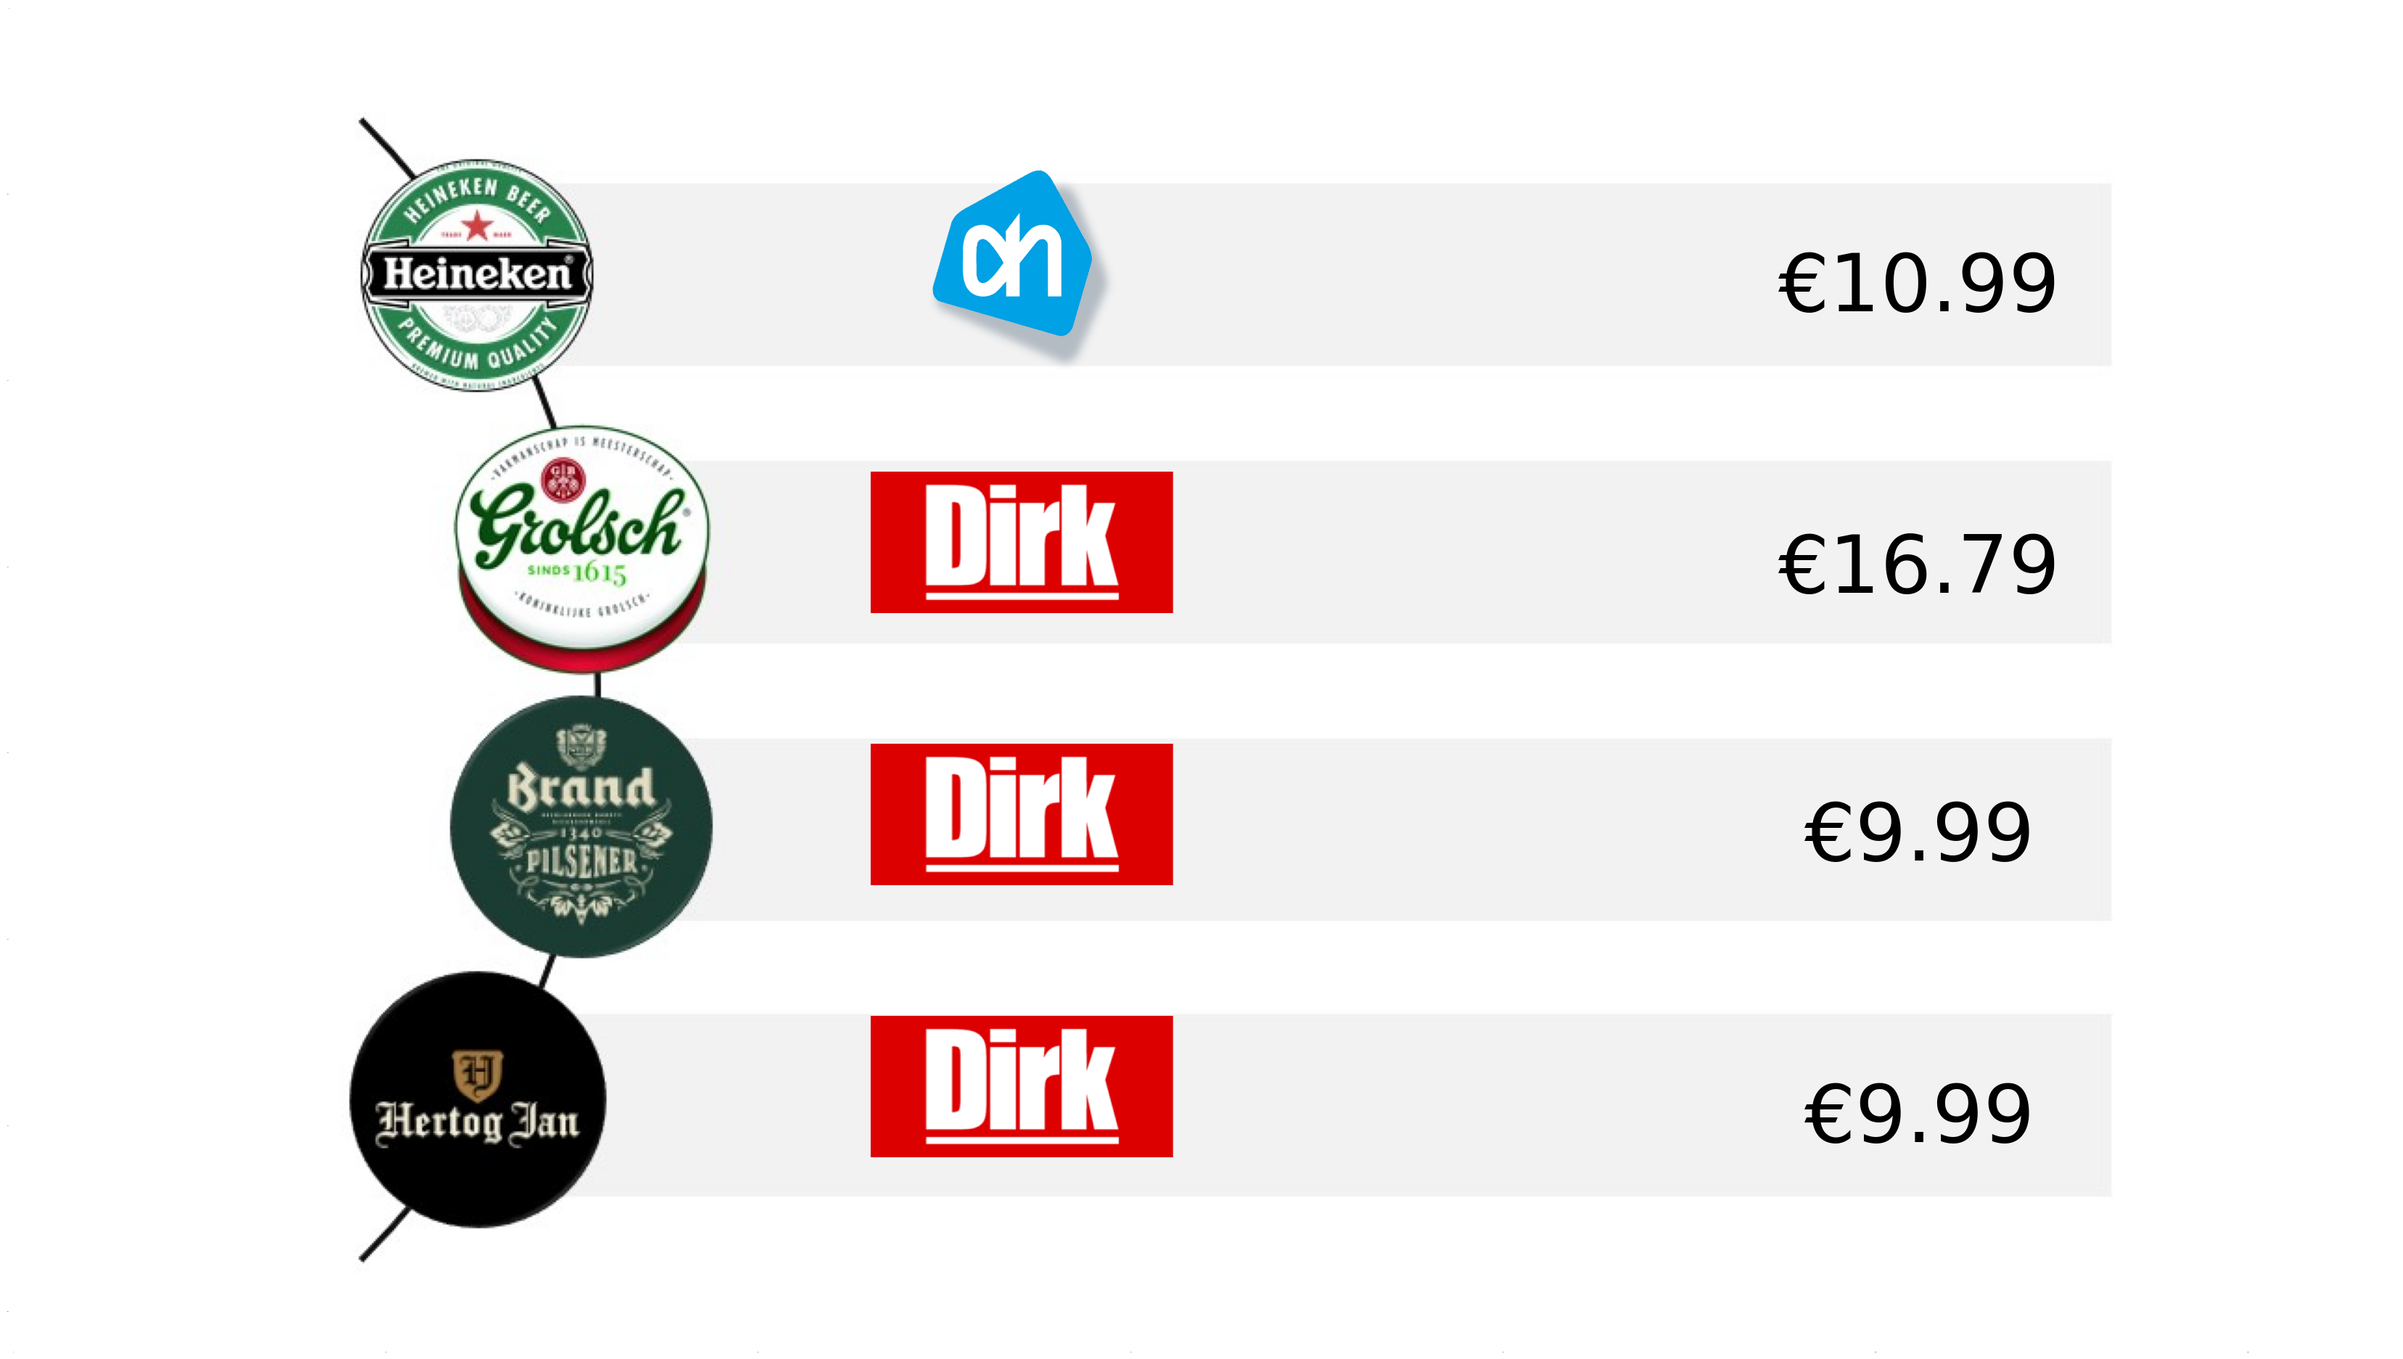
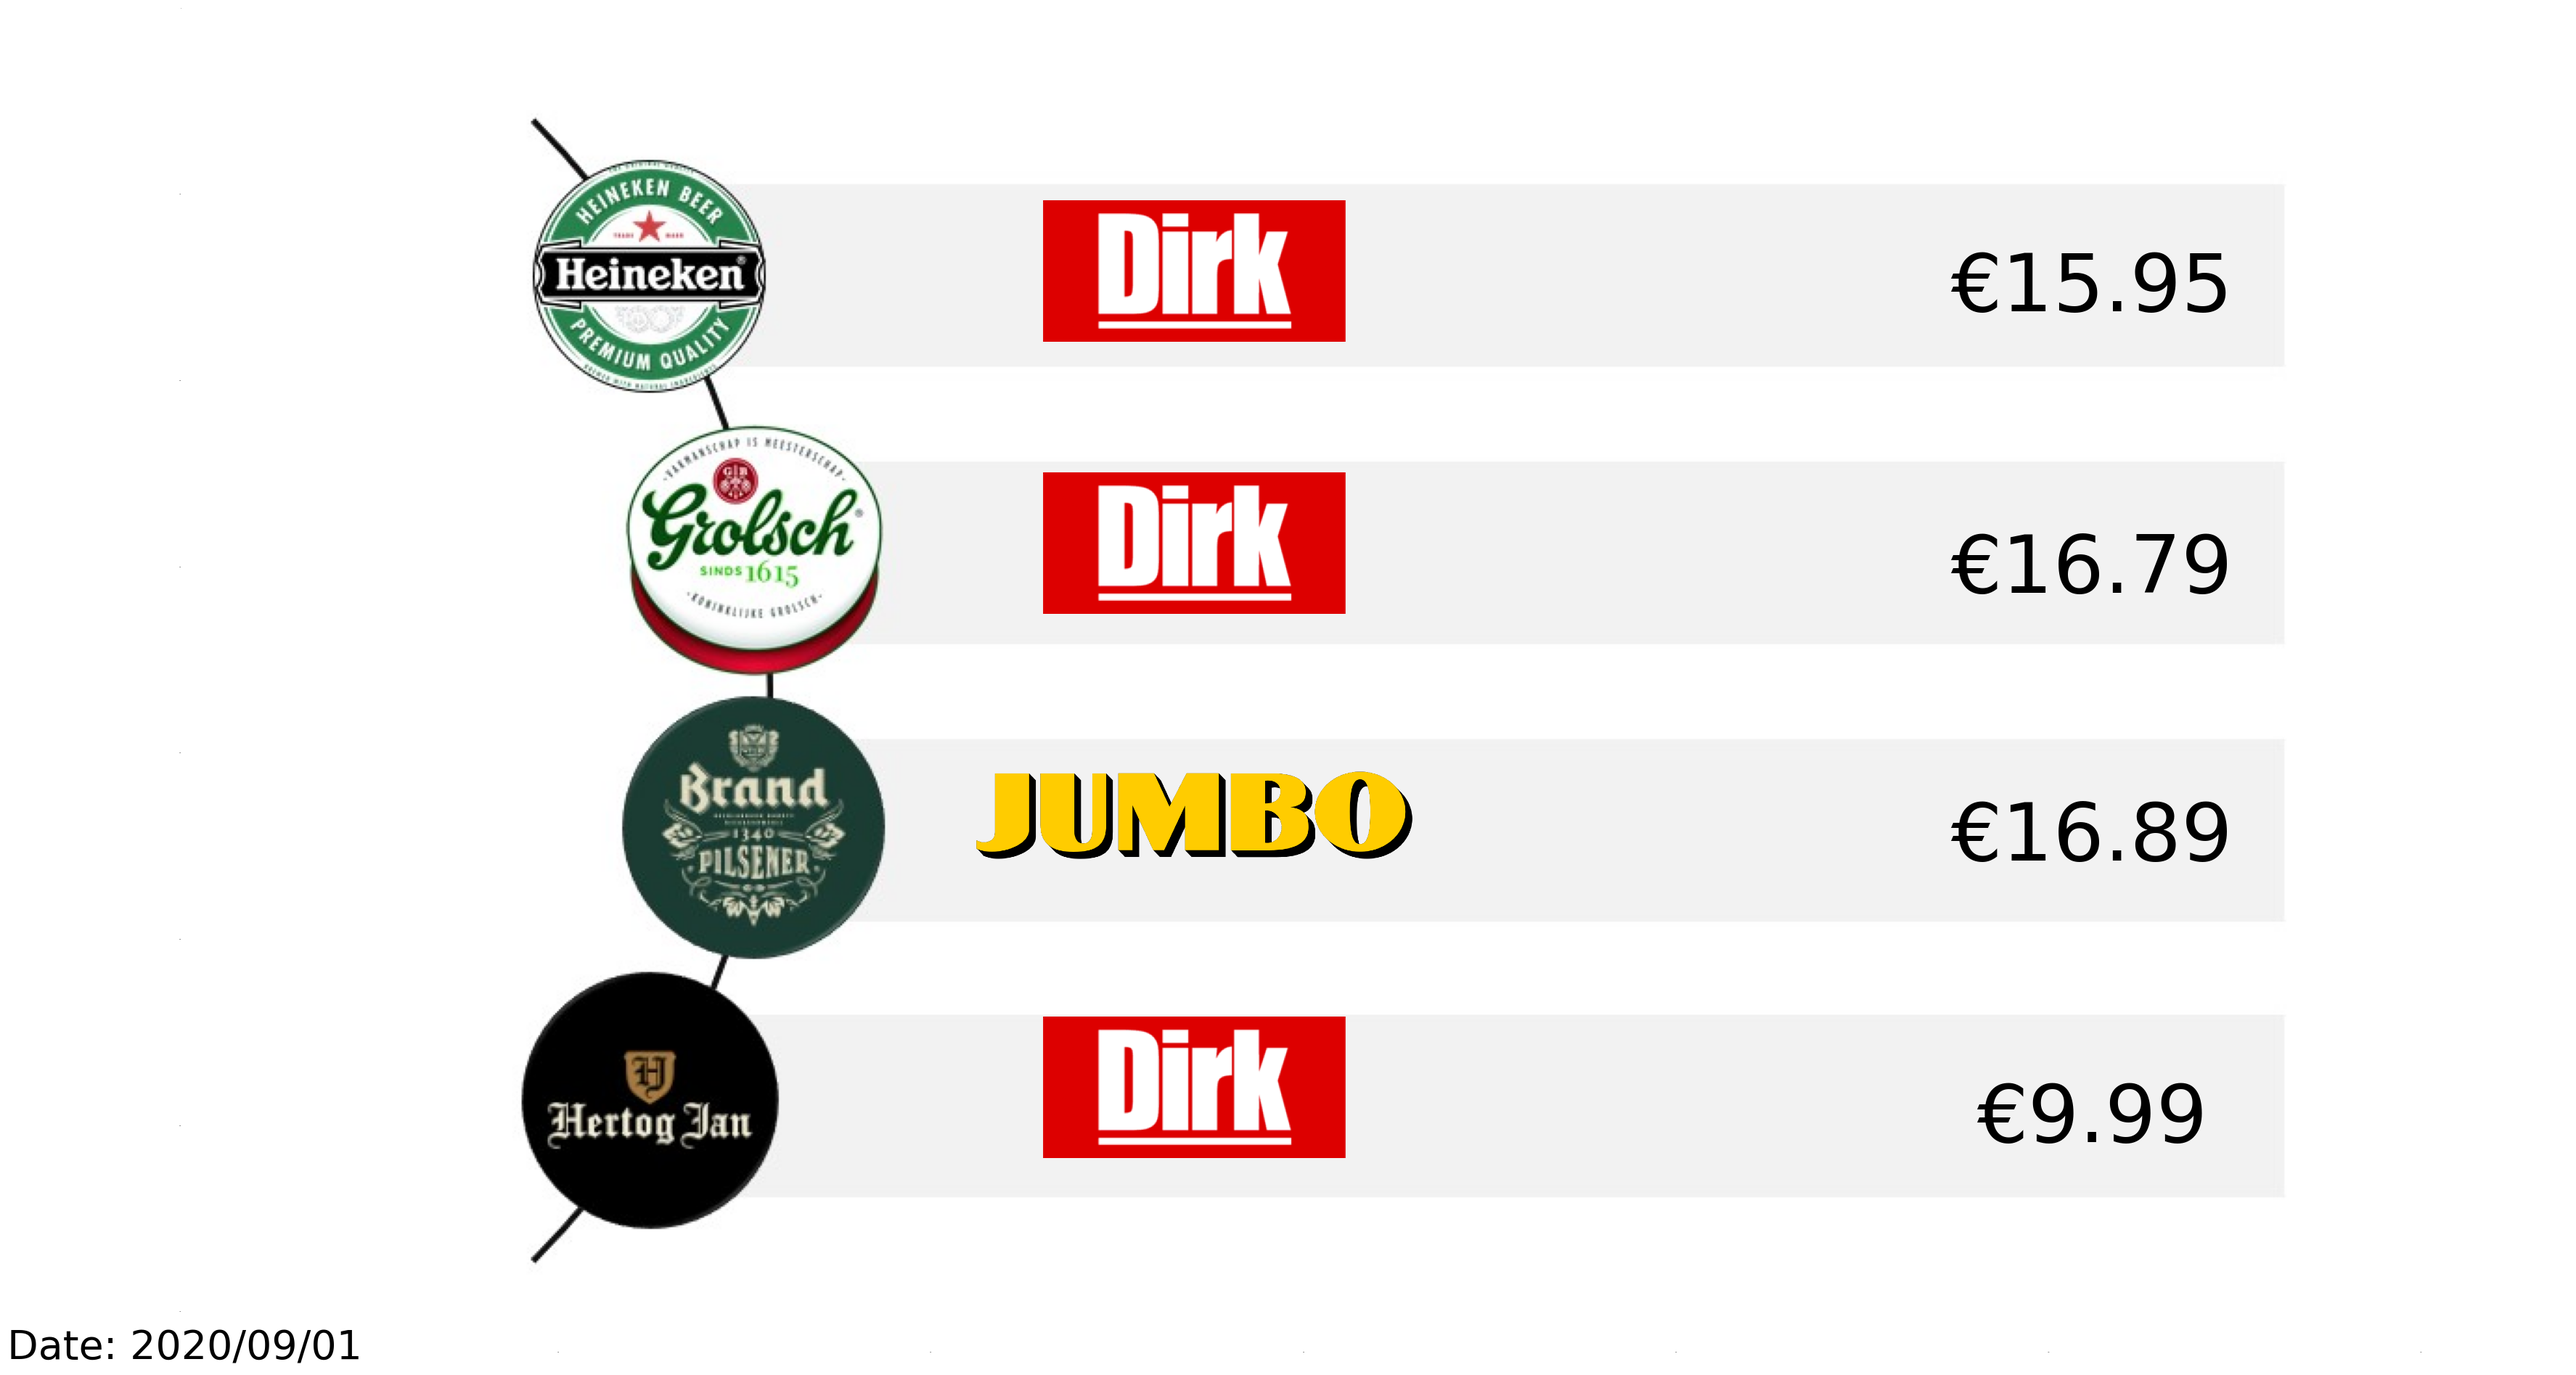
version for pc

diff --git a/update_site.py b/update_site.py
@@ -15,6 +15,7 @@ def get_dataframe_supermarket(supermarket):
     result = pd.DataFrame()
     for brand in ['Heineken','Grolsch','Brand','Hertog Jan']:
         result[brand]=pd.read_csv('logs/'+brand+'.txt',sep=';',index_col='Date')[supermarket]
+    print('lukt1')
     return result
 
 def get_dataframe_brand():
@@ -129,11 +130,11 @@ def get_beer_graphs(df):
 
 def write_markup():
     ############################ CHANGE PATHS #######################
-    path = 'beerprices.md' #'/home/pi/dijkstrar.github.io/_portfolio/beerprices.md'
+    path = '/home/pi/dijkstrar.github.io/_portfolio/beerprices.md'
     title_md = "--- \ntitle: \'Beerprice Tracker\' \ndate: 2020-08-25 \npermalink: /portfolio/2020/08/beerprices/ \n---\n\n"
     update_date_md = "History of beer prices and an overview on where to get the cheapest beer. Updated at: "+str(pd.to_datetime("today").strftime("%Y/%m/%d %H:%M")+"\n\n")
     body_md = '''This is a dynamically updating web page.\n
-# beer_tracker
+# Beer Tracker
 This is a brief overview on the tool that scrapes beer crate prices daily.
 Beer prices are collected from Albert Heijn, Dirk and Jumbo
 
@@ -150,35 +151,34 @@ Moreover, you can also select to see the history of beer prices at each separate
 
 ## Example
 A relatively relatively straightforward image will highlight which brands can be obtained for the lowest price at which supermarket.
-![alt text](<https://github.com/dijkstrar/beer_tracker/blob/master/output.png>)
-
+<img src="/images/beer_output.png" >
 
 ## History of Beer Prices 
 ### Per Supermarket
 
 \n'''
     javascript_md = '<script src="https://cdn.plot.ly/plotly-latest.min.js"></script> \n'
-    try:
-        with open(path,'w') as f:
-            f.write(title_md)
-            f.write(update_date_md)
-            f.write(body_md)
-            f.write(javascript_md)
-            df=get_dataframe_brand()
-            f.write(get_supermarket_graph(df))
-            f.write('\n### Per Beer Brand \n')
-            f.write(get_beer_graphs(df))
+
+    with open(path,'w') as f:
+        f.write(title_md)
+        f.write(update_date_md)
+        f.write(body_md)
+        f.write(javascript_md)
+        df=get_dataframe_brand()
+        f.write(get_supermarket_graph(df))
+        f.write('\n### Per Beer Brand \n')
+        f.write(get_beer_graphs(df))
         f.close()
-    except:
-        print('Error occurred in Generating plotly files')
-        with open(path,'w') as f:
-            f.write(title_md)
-            f.write(update_date_md)
-            f.write(body_md)
-            f.write(javascript_md)
-            f.write('*An error occurred in generating plots*')
-        f.close()
+
+#        print('Error occurred in Generating plotly files')
+#        with open(path,'w') as f:
+#            f.write(title_md)
+#            f.write(update_date_md)
+#            f.write(body_md)
+#            f.write(javascript_md)
+#            f.write('*An error occurred in generating plots*')
+#        f.close()
 
 if __name__ == '__main__':
     write_markup()
-    # subprocess.call(['/home/pi/net_speed/pusher_of_page.sh'],shell=True)
+    subprocess.call(['/home/pi/beer_tracker/pusher_of_page.sh'],shell=True)

diff --git a/create_image.py b/create_image.py
@@ -1,4 +1,6 @@
 #IMPORTS
+import matplotlib
+matplotlib.use('Agg')
 from matplotlib.offsetbox import (TextArea, DrawingArea, OffsetImage, AnnotationBbox)
 from matplotlib.cbook import get_sample_data
 import matplotlib.image as mpimg 
@@ -50,12 +52,13 @@ def create_plot():
         ab=plot_supermarket(ax,key,minima[key][0])
         ax.add_artist(ab)
         ax.text(text_positions[key][0], text_positions[key][1], '€'+str(minima[key][1]), horizontalalignment='center',verticalalignment='center', transform=ax.transAxes,fontsize=80)
-
+    ax.text(0,0,'Date: '+pd.to_datetime("today").strftime("%Y/%m/%d"),horizontalalignment='center',verticalalignment='center',transform=ax.transAxes,fontsize=40)
     img = mpimg.imread('background.jpg')
     plt.tick_params(axis='both', labelsize=0, length = 0)
     plt.box(False)
     plt.imshow(img)
     plt.savefig('output.png', bbox_inches='tight')
+    plt.savefig('../dijkstrar.github.io/images/beer_output.png', bbox_inches='tight')
 
 if __name__ == '__main__':
     create_plot()
